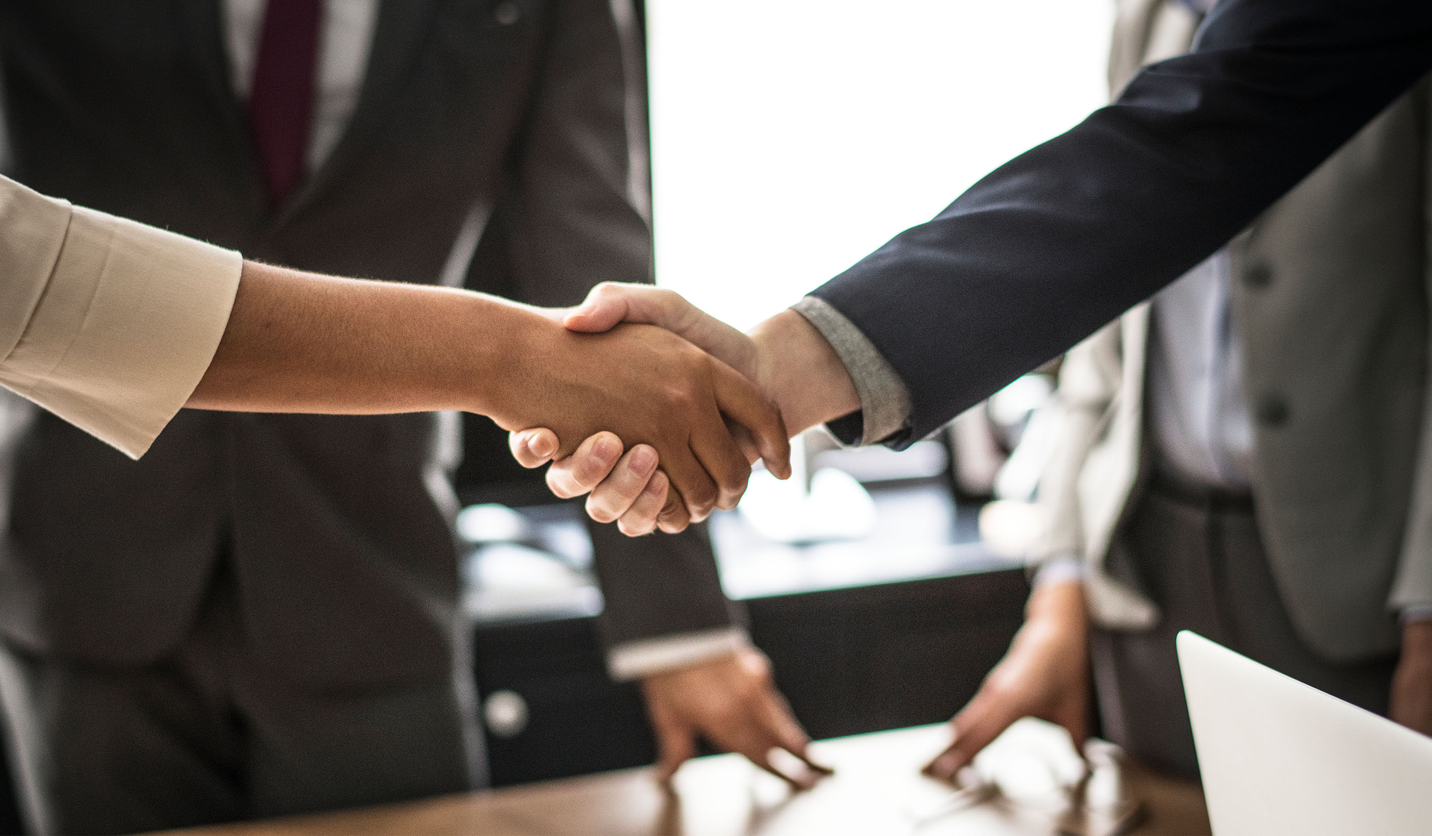
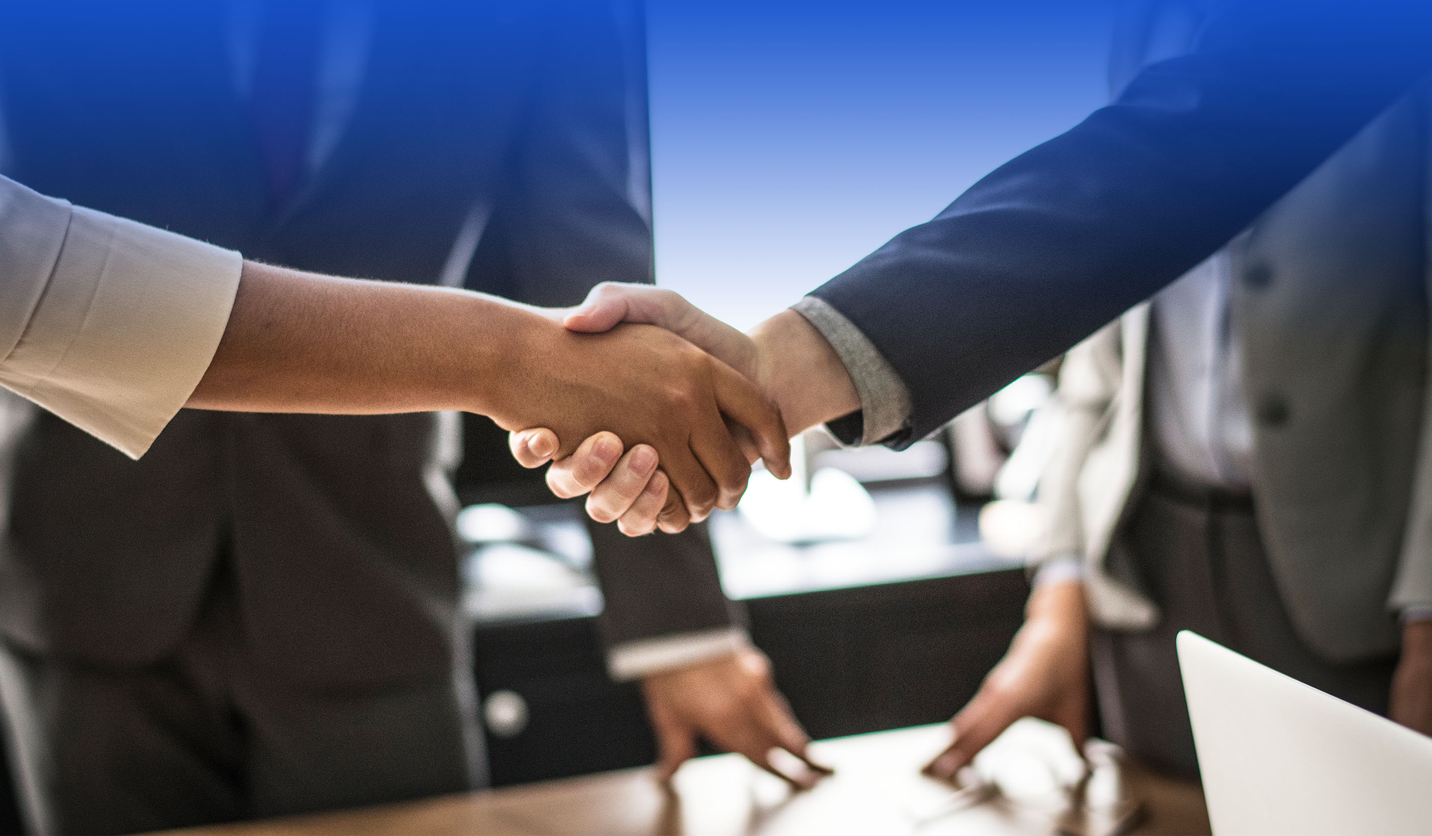
menu ja com cores ainda não formatado letras

diff --git a/index02.html b/index02.html
@@ -23,33 +23,39 @@
 <body>
 
 
-    <div class="container headEstutura" >
+    <div class="container headEstutura " >
 
         <div class="container  text-center ">
           <br>
             <img src="./logo.png" alt="" width="125" height="50">
         </div>
 
-    <div class="container ">
+    <div class="container text-info ">
 
-    <nav class="navbar navbar-expand-lg navbar-light bg-light  " >
-        <a class="navbar-brand" href="#">Navbar</a>
-        <button class="navbar-toggler" type="button" data-toggle="collapse" data-target="#navbarNav" aria-controls="navbarNav" aria-expanded="false" aria-label="Toggle navigation">
+    <nav class="navbar navbar-expand-lg navbar-light bg-light  " style=" background-color: #22af6900!important ; ">
+        
+        <button class="navbar-toggler" type="button" data-toggle="collapse" data-target="#navbarNav" aria-controls="navbarNav" aria-expanded="false" aria-label="Toggle navigation ">
           <span class="navbar-toggler-icon"></span>
         </button>
         <div class="collapse navbar-collapse" id="navbarNav">
           <ul class="navbar-nav">
             <li class="nav-item active">
-              <a class="nav-link" href="#">Home <span class="sr-only">(current)</span></a>
+              <a class="nav-link" href="#">QUEM SOMOS<span class="sr-only">(current)</span></a>
+            </li>
+            <li class="nav-item" >
+              <a class="nav-link" href="#">O QUE FAZEMOS</a>
             </li>
             <li class="nav-item">
-              <a class="nav-link" href="#">Features</a>
+              <a class="nav-link" href="#">PORTIFÓLIO</a>
             </li>
             <li class="nav-item">
-              <a class="nav-link" href="#">Pricing</a>
+              <a class="nav-link " href="#">CLIENTES</a>
             </li>
             <li class="nav-item">
-              <a class="nav-link disabled" href="#">Disabled</a>
+              <a class="nav-link " href="#">IMPRENSA</a>
+            </li>
+            <li class="nav-item" >
+              <a class="nav-link " href="#" >AGENDE UMA PROZZA</a>
             </li>
           </ul>
         </div>

diff --git a/style.css b/style.css
@@ -13,9 +13,24 @@
  
 .container{
   font-size: 14px;
+  
     /* display: block;
      padding: 0.5rem 1rem; 
    padding: 0.5rem 1rem; */
  
 } 
 
+.g-light {
+  background-color: #5aa6f100!important;
+}
+
+
+element.style {
+}
+.navbar-light .navbar-nav .active>.nav-link, .navbar-light .navbar-nav .nav-link.active, .navbar-light .navbar-nav .nav-link.show, .navbar-light .navbar-nav .show>.nav-link {
+    color: #e8ebef;
+}
+.navbar-light .navbar-nav .nav-link {
+    color: #dfe4e9;
+    
+}
